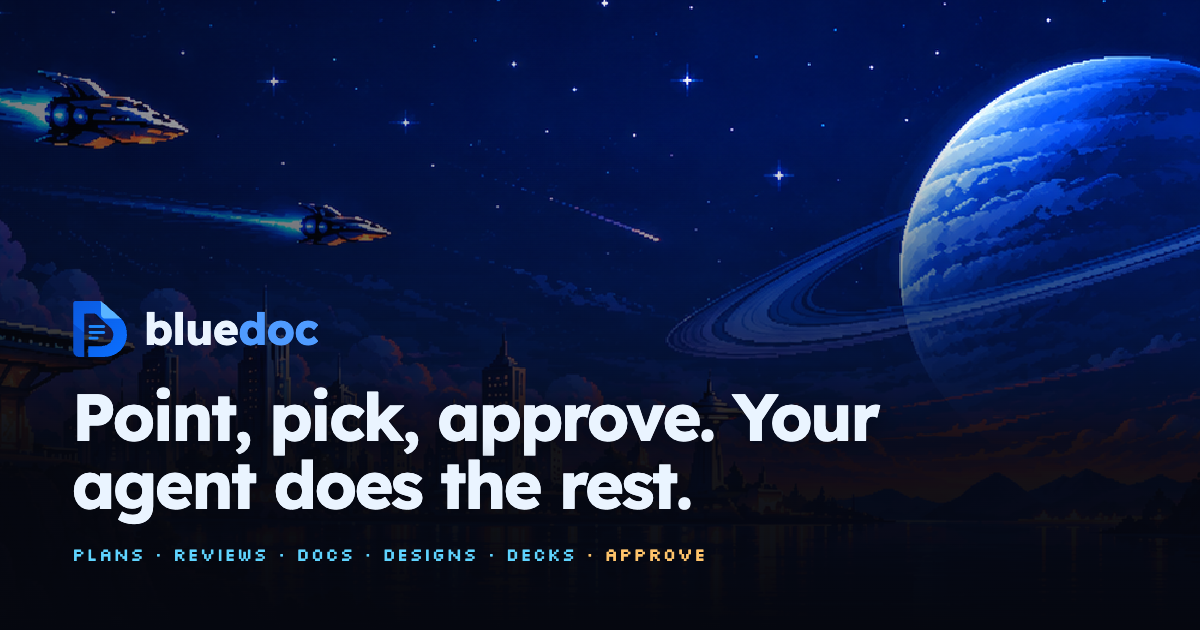
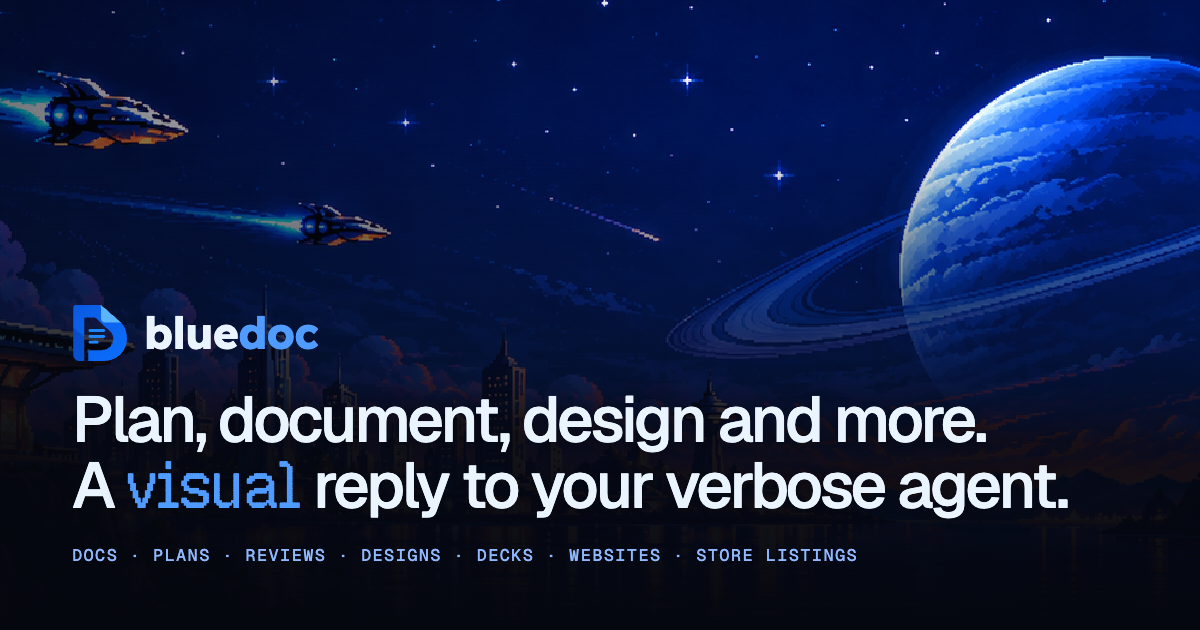
Social card in the new design: the home's headline in Geist with 'visual' in Geist Pixel, the doc types in mono caps, blues only; page title and image alt match; unused Inter, Silkscreen and JetBrains Mono packages dropped

Changed region(s): [[0.0617, 0.6032, 0.8942, 0.8444], [0.0617, 0.8746, 0.7092, 0.9048], [0.0617, 0.4524, 0.2775, 0.573]]

diff --git a/scripts/og/og.html b/scripts/og/og.html
@@ -10,13 +10,18 @@
         src: url(../../node_modules/@fontsource-variable/lexend/files/lexend-latin-wght-normal.woff2) format('woff2');
       }
       @font-face {
-        font-family: 'Inter';
+        font-family: 'Geist';
         font-weight: 100 900;
-        src: url(../../node_modules/@fontsource-variable/inter/files/inter-latin-wght-normal.woff2) format('woff2');
+        src: url(../../node_modules/@fontsource-variable/geist/files/geist-latin-wght-normal.woff2) format('woff2');
       }
       @font-face {
-        font-family: 'Silkscreen';
-        src: url(../../node_modules/@fontsource/silkscreen/files/silkscreen-latin-400-normal.woff2) format('woff2');
+        font-family: 'Geist Mono';
+        font-weight: 100 900;
+        src: url(../../node_modules/@fontsource-variable/geist-mono/files/geist-mono-latin-wght-normal.woff2) format('woff2');
+      }
+      @font-face {
+        font-family: 'Geist Pixel';
+        src: url(../../node_modules/@fontsource/geist-pixel/files/geist-pixel-latin-400-normal.woff2) format('woff2');
       }
       html,
       body {
@@ -31,7 +36,7 @@
         width: 1200px;
         height: 630px;
         overflow: hidden;
-        font-family: 'Inter', sans-serif;
+        font-family: 'Geist', sans-serif;
         color: #eaf4ff;
       }
       /* the banner at 1.2× its source pixels, shifted so the city sits left and the ringed planet right */
@@ -76,27 +81,30 @@
       .brand .d {
         color: #4f9bff;
       }
+      /* the home's headline: Geist 500, one word in the pixel face in bluedoc blue */
       h1 {
         margin: 26px 0 0;
-        max-width: 930px;
-        font-family: 'Lexend', sans-serif;
-        font-weight: 700;
-        font-size: 66px;
+        font-family: 'Geist', sans-serif;
+        font-weight: 500;
+        font-size: 64px;
         line-height: 1.04;
-        letter-spacing: -0.035em;
+        letter-spacing: -0.045em;
         text-shadow: 0 2px 24px rgb(5 7 15 / 0.8);
       }
-      .tag {
-        margin-top: 22px;
-        font-family: 'Silkscreen', monospace;
-        font-size: 18px;
-        letter-spacing: 0.06em;
-        text-transform: uppercase;
-        color: #5fd4ff;
-      }
-      .tag b {
-        color: #ffc46b;
+      h1 .px {
+        font-family: 'Geist Pixel', monospace;
         font-weight: 400;
+        letter-spacing: -0.02em;
+        color: #4f9bff;
+      }
+      .tag {
+        margin-top: 24px;
+        font-family: 'Geist Mono', monospace;
+        font-weight: 450;
+        font-size: 17px;
+        letter-spacing: 0.08em;
+        text-transform: uppercase;
+        color: #8fb8ff;
       }
     </style>
   </head>
@@ -106,8 +114,8 @@
       <div class="shade"></div>
       <div class="copy">
         <div class="brand"><img src="../../public/favicon.svg" alt="" /><span><span class="b">blue</span><span class="d">doc</span></span></div>
-        <h1>Point, pick, approve. Your agent does the rest.</h1>
-        <div class="tag">Plans · Reviews · Docs · Designs · Decks <b>· Approve</b></div>
+        <h1>Plan, document, design and more.<br />A <span class="px">visual</span> reply to your verbose agent.</h1>
+        <div class="tag">Docs · Plans · Reviews · Designs · Decks · Websites · Store listings</div>
       </div>
     </div>
   </body>

diff --git a/src/content/site.ts b/src/content/site.ts
@@ -9,10 +9,10 @@ import { base } from '../lib/paths';
 export const repoUrl = 'https://github.com/andreiverdes/bluedoc';
 
 export const meta = {
-  title: 'bluedoc: point, pick, approve. Your agent does the rest.',
+  title: 'bluedoc: a visual reply to your verbose agent',
   description:
     'An agent skill for docs, plans, code reviews, UI designs, slide decks, app icons and store listings. The agent writes one JSON file; a local server renders it as a page you comment on, decide and approve.',
-  ogImageAlt: 'bluedoc: a pixel-art night bay with a ringed planet, the bluedoc logo and the headline “Point, pick, approve. Your agent does the rest.”',
+  ogImageAlt: 'bluedoc: a pixel-art night bay with a ringed planet, the bluedoc logo and the headline “Plan, document, design and more. A visual reply to your verbose agent.”',
 };
 
 // The type pages link to the Features page from their shared clips.

diff --git a/README.md b/README.md
@@ -67,6 +67,6 @@ The page is static HTML and CSS plus one bundle of two scripts. `src/scripts/sit
 ## Credits
 
 - bluedoc, its banners, logo and recordings: MIT, from the [bluedoc repository](https://github.com/andreiverdes/bluedoc). The recordings show bluedoc's HorizonUI build (Apache-2.0).
-- Fonts, self-hosted via Fontsource: Geist, Geist Mono and Geist Pixel, all SIL Open Font License 1.1. The social card (`scripts/og/og.html`) still uses Lexend, Inter and Silkscreen.
+- Fonts, self-hosted via Fontsource: Geist, Geist Mono and Geist Pixel, all SIL Open Font License 1.1. The bluedoc wordmark is Lexend (OFL 1.1): outlined to paths in `Logo.astro`, and set as text in the social card.
 - Animation: [Motion](https://motion.dev) (MIT).
 - Icons: [Lucide](https://lucide.dev) (ISC).
